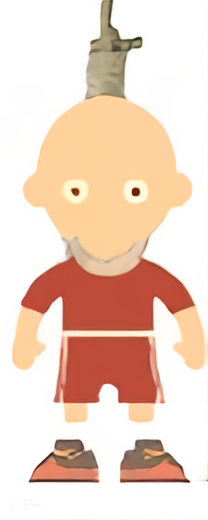
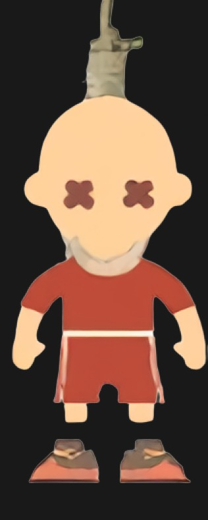
Updated code

diff --git a/hangman.py b/hangman.py
@@ -1,6 +1,8 @@
 import random
 from tkinter import *
 from tkinter import messagebox
+from turtle import color
+import getpass
 
 score = 0
 run = True
@@ -10,21 +12,19 @@ while run:
     root = Tk()
     root.geometry('905x700')
     root.title('HANG MAN')
-    root.config(bg = '#E7FFFF')
+    root.config(bg = '#191919')
     count = 0
     win_count = 0
 
     # choosing word
-    index = random.randint(0,853)
-    file = open('words.txt','r')
-    l = file.readlines()
-    selected_word = l[index].strip('\n')
+    print("Get ready to play Hangman!")
+    selected_word = getpass.getpass("Player 1, input your word: ").lower()
     
     # creation of word dashes variables
     x = 650
     for i in range(0,len(selected_word)):
         x += 60
-        exec('d{}=Label(root,text="_",bg="#E7FFFF",font=("arial",40))'.format(i))
+        exec('d{}=Label(root,text="_",bg="#ffffff",font=("arial",40), padx = 10)'.format(i))
         exec('d{}.place(x={},y={})'.format(i,x,500))
         
     #letters icon
@@ -33,7 +33,7 @@ while run:
         exec('{}=PhotoImage(file="{}.png")'.format(let,let))
         
     # hangman images
-    h123 = ['h1','h2','h3','h4','h5','h6','h7']
+    h123 = ['h0','h1','h2','h3','h4','h5','h6']
     for hangman in h123:
         exec('{}=PhotoImage(file="{}.png")'.format(hangman,hangman))
         
@@ -41,13 +41,13 @@ while run:
     button = [['b1','a',300,595],['b2','b',370,595],['b3','c',440,595],['b4','d',510,595],['b5','e',580,595],['b6','f',650,595],['b7','g',720,595],['b8','h',790,595],['b9','i',860,595],['b10','j',930,595],['b11','k',1000,595],['b12','l',1070,595],['b13','m',1140,595],['b14','n',300,655],['b15','o',370,655],['b16','p',440,655],['b17','q',510,655],['b18','r',580,655],['b19','s',650,655],['b20','t',720,655],['b21','u',790,655],['b22','v',860,655],['b23','w',930,655],['b24','x',1000,655],['b25','y',1070,655],['b26','z',1140,655]]
 
     for q1 in button:
-        exec('{}=Button(root,bd=0,command=lambda:check("{}","{}"),bg="#E7FFFF",activebackground="#E7FFFF",font=10,image={})'.format(q1[0],q1[1],q1[0],q1[1]))
+        exec('{}=Button(root,bd=0,command=lambda:check("{}","{}"),bg="#191919",activebackground="#191919",font=10,image={})'.format(q1[0],q1[1],q1[0],q1[1]))
         exec('{}.place(x={},y={})'.format(q1[0],q1[2],q1[3]))
         
     #hangman placement
-    han = [['c1','h1'],['c2','h2'],['c3','h3'],['c4','h4'],['c5','h5'],['c6','h6'],['c7','h7']]
+    han = [['c1','h0'],['c2','h1'],['c3','h2'],['c4','h3'],['c5','h4'],['c6','h5'],['c7','h6']]
     for p1 in han:
-        exec('{}=Label(root,bg="#E7FFFF",image={})'.format(p1[0],p1[1]))
+        exec('{}=Label(root,bg="#191919",image={})'.format(p1[0],p1[1]))
 
     # placement of first hangman image
     c1.place(x = 700,y =- 50)
@@ -61,10 +61,10 @@ while run:
             root.destroy()
             
     e1 = PhotoImage(file = 'exit.png')
-    ex = Button(root,bd = 0,command = close,bg="#E7FFFF",activebackground = "#E7FFFF",font = 10,image = e1)
+    ex = Button(root,bd = 0,command = close,bg="#191919",activebackground = "#191919",font = 10,image = e1,height = 54,width=126)
     ex.place(x=1400,y=10)
     s2 = 'SCORE:'+str(score)
-    s1 = Label(root,text = s2,bg = "#E7FFFF",font = ("arial",25))
+    s1 = Label(root,text = s2,bg = "#fff",font = ("arial",25))
     s1.place(x = 10,y = 10)
 
     # button press check function
@@ -90,7 +90,7 @@ while run:
             exec('c{}.destroy()'.format(count))
             exec('c{}.place(x={},y={})'.format(count+1,700,-50))
             if count == 6:
-                answer = messagebox.askyesno('GAME OVER','YOU LOST!\nWANT TO PLAY AGAIN?')
+                answer = messagebox.askyesno('GAME OVER','YOU LOST! THE WORD WAS'+selected_word+'\n WANT TO PLAY AGAIN?')
                 if answer == True:
                     run = True
                     score = 0

diff --git a/tempCodeRunnerFile.py b/tempCodeRunnerFile.py
@@ -1,0 +1,1 @@
+padx= 50
